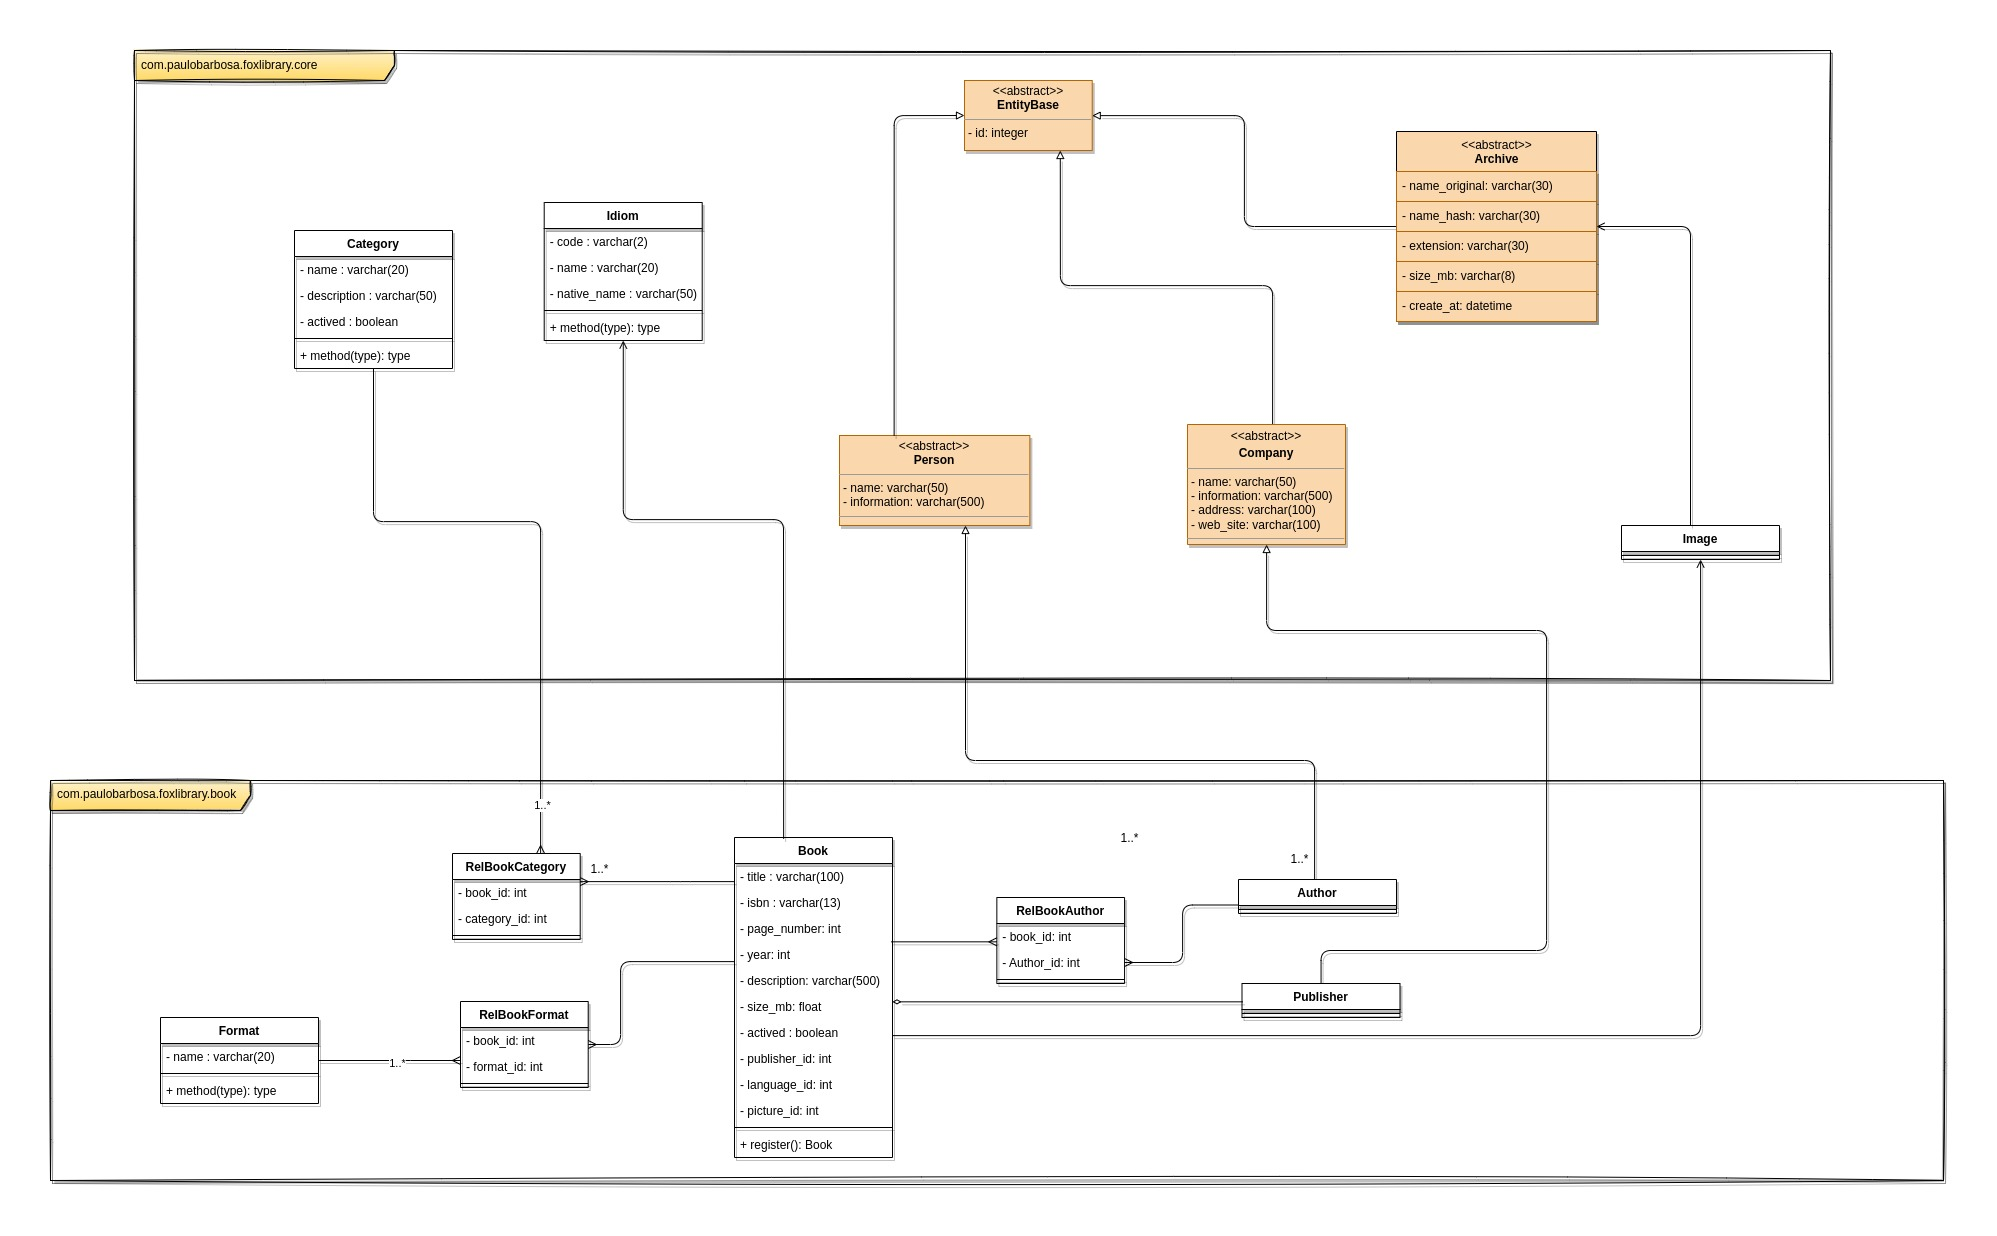
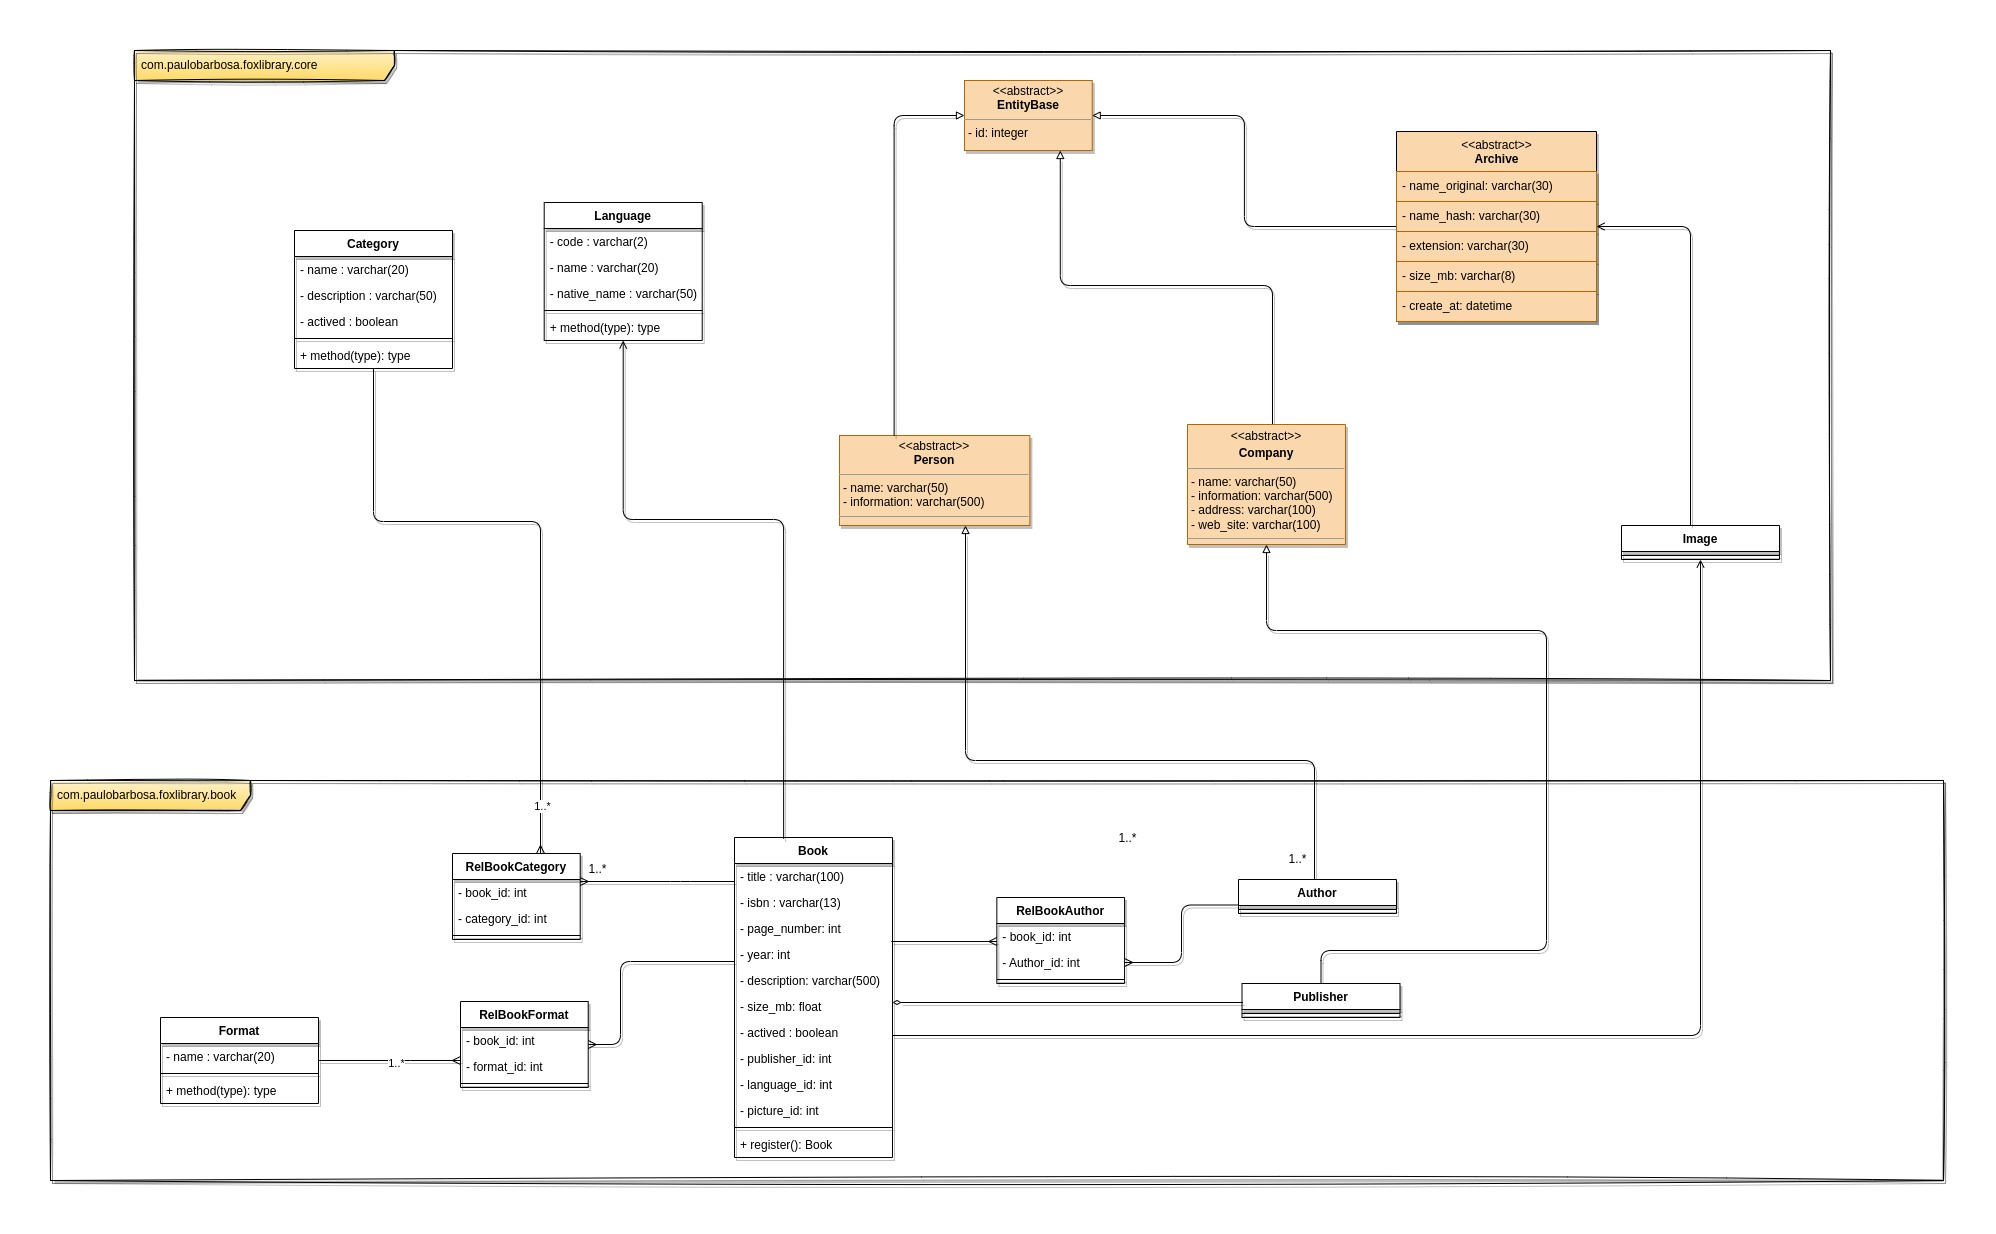
create class Language and refactor packages

diff --git a/backend/src/main/java/com/paulobarbosa/foxlibrary/global/model/Language.java b/backend/src/main/java/com/paulobarbosa/foxlibrary/global/model/Language.java
@@ -1,7 +1,6 @@
-package com.paulobarbosa.foxlibrary.book.model;
+package com.paulobarbosa.foxlibrary.global.model;
 
 import com.paulobarbosa.foxlibrary.core.util.Constants;
-import com.paulobarbosa.foxlibrary.global.entity.EntityBase;
 import lombok.*;
 import org.hibernate.Hibernate;
 
@@ -18,18 +17,28 @@ import java.util.Objects;
 @NoArgsConstructor
 @AllArgsConstructor
 @ToString
-public class Format extends EntityBase {
+public class Language extends EntityBase{
     @NotEmpty(message = Constants.REQUIRED_FILED)
-    @Size(max = 8)
-    @Column(name = "name", length = 8, nullable = false)
+    @Size(max = 2)
+    @Column(name = "code", length = 2, nullable = false)
+    private String code;
+
+    @NotEmpty(message = Constants.REQUIRED_FILED)
+    @Size(max = 20)
+    @Column(name = "name", length = 20, nullable = false)
     private String name;
+
+    @NotEmpty(message = Constants.REQUIRED_FILED)
+    @Size(max = 50)
+    @Column(name = "native_name", length = 50, nullable = false)
+    private String nativeName;
 
     @Override
     public boolean equals(Object o) {
         if (this == o) return true;
         if (o == null || Hibernate.getClass(this) != Hibernate.getClass(o)) return false;
-        Format format = (Format) o;
-        return getId() != null && Objects.equals(getId(), format.getId());
+        Language language = (Language) o;
+        return getId() != null && Objects.equals(getId(), language.getId());
     }
 
     @Override

diff --git a/backend/src/main/java/com/paulobarbosa/foxlibrary/global/model/Archive.java b/backend/src/main/java/com/paulobarbosa/foxlibrary/global/model/Archive.java
@@ -1,13 +1,17 @@
-package com.paulobarbosa.foxlibrary.global.entity;
+package com.paulobarbosa.foxlibrary.global.model;
 
 import com.paulobarbosa.foxlibrary.core.util.Constants;
+import lombok.Data;
+import org.hibernate.Hibernate;
 import org.hibernate.annotations.CreationTimestamp;
 
 import javax.persistence.Column;
 import javax.validation.constraints.NotEmpty;
 import javax.validation.constraints.Size;
 import java.time.LocalDateTime;
+import java.util.Objects;
 
+@Data
 public abstract class Archive extends EntityBase {
 
     @NotEmpty(message = Constants.REQUIRED_FILED)
@@ -30,4 +34,17 @@ public abstract class Archive extends EntityBase {
     @CreationTimestamp
     @Column(name = "create_at")
     private LocalDateTime createdAt;
+
+    @Override
+    public boolean equals(Object o) {
+        if (this == o) return true;
+        if (o == null || Hibernate.getClass(this) != Hibernate.getClass(o)) return false;
+        Archive archive = (Archive) o;
+        return getId() != null && Objects.equals(getId(), archive.getId());
+    }
+
+    @Override
+    public int hashCode() {
+        return getClass().hashCode();
+    }
 }

diff --git a/backend/src/main/java/com/paulobarbosa/foxlibrary/global/model/Company.java b/backend/src/main/java/com/paulobarbosa/foxlibrary/global/model/Company.java
@@ -1,11 +1,15 @@
-package com.paulobarbosa.foxlibrary.global.entity;
+package com.paulobarbosa.foxlibrary.global.model;
 
 import com.paulobarbosa.foxlibrary.core.util.Constants;
+import lombok.Data;
+import org.hibernate.Hibernate;
 
 import javax.persistence.Column;
 import javax.validation.constraints.NotEmpty;
 import javax.validation.constraints.Size;
+import java.util.Objects;
 
+@Data
 public abstract class Company extends EntityBase {
     @NotEmpty(message = Constants.REQUIRED_FILED)
     @Size(max = 50)
@@ -23,4 +27,17 @@ public abstract class Company extends EntityBase {
     @Size(max = 100)
     @Column(name = "website", length = 100)
     private String website;
+
+    @Override
+    public boolean equals(Object o) {
+        if (this == o) return true;
+        if (o == null || Hibernate.getClass(this) != Hibernate.getClass(o)) return false;
+        Company company = (Company) o;
+        return getId() != null && Objects.equals(getId(), company.getId());
+    }
+
+    @Override
+    public int hashCode() {
+        return getClass().hashCode();
+    }
 }

diff --git a/backend/src/main/java/com/paulobarbosa/foxlibrary/global/model/Person.java b/backend/src/main/java/com/paulobarbosa/foxlibrary/global/model/Person.java
@@ -1,0 +1,36 @@
+package com.paulobarbosa.foxlibrary.global.model;
+
+import com.paulobarbosa.foxlibrary.core.util.Constants;
+import lombok.Data;
+import org.hibernate.Hibernate;
+
+import javax.persistence.Column;
+import javax.validation.constraints.NotEmpty;
+import javax.validation.constraints.Size;
+import java.util.Objects;
+
+
+@Data
+public abstract class Person extends EntityBase {
+    @NotEmpty(message = Constants.REQUIRED_FILED)
+    @Size(max = 50)
+    @Column(name = "name", length = 50, nullable = false)
+    private String name;
+
+    @Size(max = 500)
+    @Column(name = "information", length = 500)
+    private String information;
+
+    @Override
+    public boolean equals(Object o) {
+        if (this == o) return true;
+        if (o == null || Hibernate.getClass(this) != Hibernate.getClass(o)) return false;
+        Person person = (Person) o;
+        return getId() != null && Objects.equals(getId(), person.getId());
+    }
+
+    @Override
+    public int hashCode() {
+        return getClass().hashCode();
+    }
+}

diff --git a/backend/src/main/java/com/paulobarbosa/foxlibrary/global/model/Format.java b/backend/src/main/java/com/paulobarbosa/foxlibrary/global/model/Format.java
@@ -1,0 +1,38 @@
+package com.paulobarbosa.foxlibrary.global.model;
+
+import com.paulobarbosa.foxlibrary.core.util.Constants;
+import lombok.*;
+import org.hibernate.Hibernate;
+
+import javax.persistence.Column;
+import javax.persistence.Entity;
+import javax.validation.constraints.NotEmpty;
+import javax.validation.constraints.Size;
+import java.util.Objects;
+
+@Entity
+@Getter
+@Setter
+@Builder
+@NoArgsConstructor
+@AllArgsConstructor
+@ToString
+public class Format extends EntityBase {
+    @NotEmpty(message = Constants.REQUIRED_FILED)
+    @Size(max = 8)
+    @Column(name = "name", length = 8, nullable = false)
+    private String name;
+
+    @Override
+    public boolean equals(Object o) {
+        if (this == o) return true;
+        if (o == null || Hibernate.getClass(this) != Hibernate.getClass(o)) return false;
+        Format format = (Format) o;
+        return getId() != null && Objects.equals(getId(), format.getId());
+    }
+
+    @Override
+    public int hashCode() {
+        return getClass().hashCode();
+    }
+}

diff --git a/backend/src/main/java/com/paulobarbosa/foxlibrary/global/model/EntityBase.java b/backend/src/main/java/com/paulobarbosa/foxlibrary/global/model/EntityBase.java
@@ -1,0 +1,22 @@
+package com.paulobarbosa.foxlibrary.global.model;
+
+import lombok.EqualsAndHashCode;
+import lombok.Getter;
+import lombok.NoArgsConstructor;
+import lombok.Setter;
+
+import javax.persistence.Entity;
+import javax.persistence.GeneratedValue;
+import javax.persistence.GenerationType;
+import javax.persistence.Id;
+
+@Entity
+@Getter
+@Setter
+@NoArgsConstructor
+public abstract class EntityBase {
+    @Id
+    @EqualsAndHashCode.Include
+    @GeneratedValue(strategy = GenerationType.IDENTITY)
+    private Long id;
+}

diff --git a/backend/src/main/java/com/paulobarbosa/foxlibrary/global/repository/FormatRepository.java b/backend/src/main/java/com/paulobarbosa/foxlibrary/global/repository/FormatRepository.java
@@ -1,6 +1,6 @@
-package com.paulobarbosa.foxlibrary.book.repository;
+package com.paulobarbosa.foxlibrary.global.repository;
 
-import com.paulobarbosa.foxlibrary.book.model.Format;
+import com.paulobarbosa.foxlibrary.global.model.Format;
 import org.springframework.data.jpa.repository.JpaRepository;
 import org.springframework.stereotype.Repository;
 

diff --git a/backend/src/main/java/com/paulobarbosa/foxlibrary/global/repository/LanguageRepository.java b/backend/src/main/java/com/paulobarbosa/foxlibrary/global/repository/LanguageRepository.java
@@ -1,0 +1,9 @@
+package com.paulobarbosa.foxlibrary.global.repository;
+
+import com.paulobarbosa.foxlibrary.global.model.Language;
+import org.springframework.data.jpa.repository.JpaRepository;
+import org.springframework.stereotype.Repository;
+
+@Repository
+public interface LanguageRepository extends JpaRepository<Language, Long> {
+}
